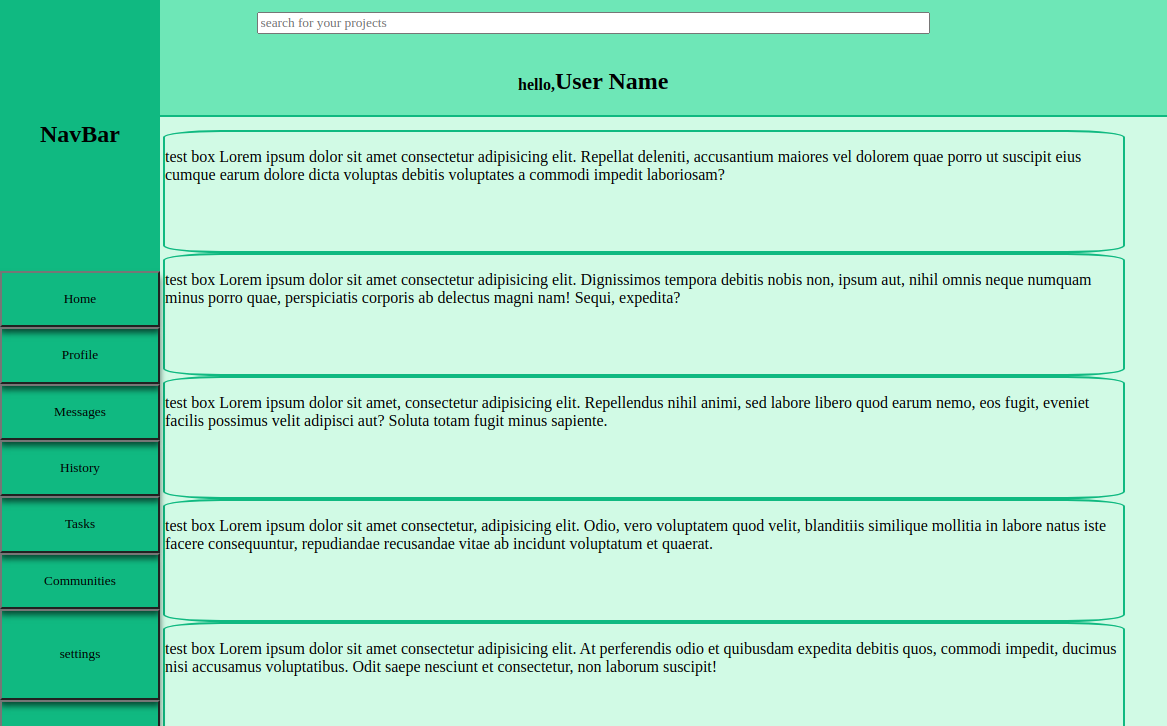
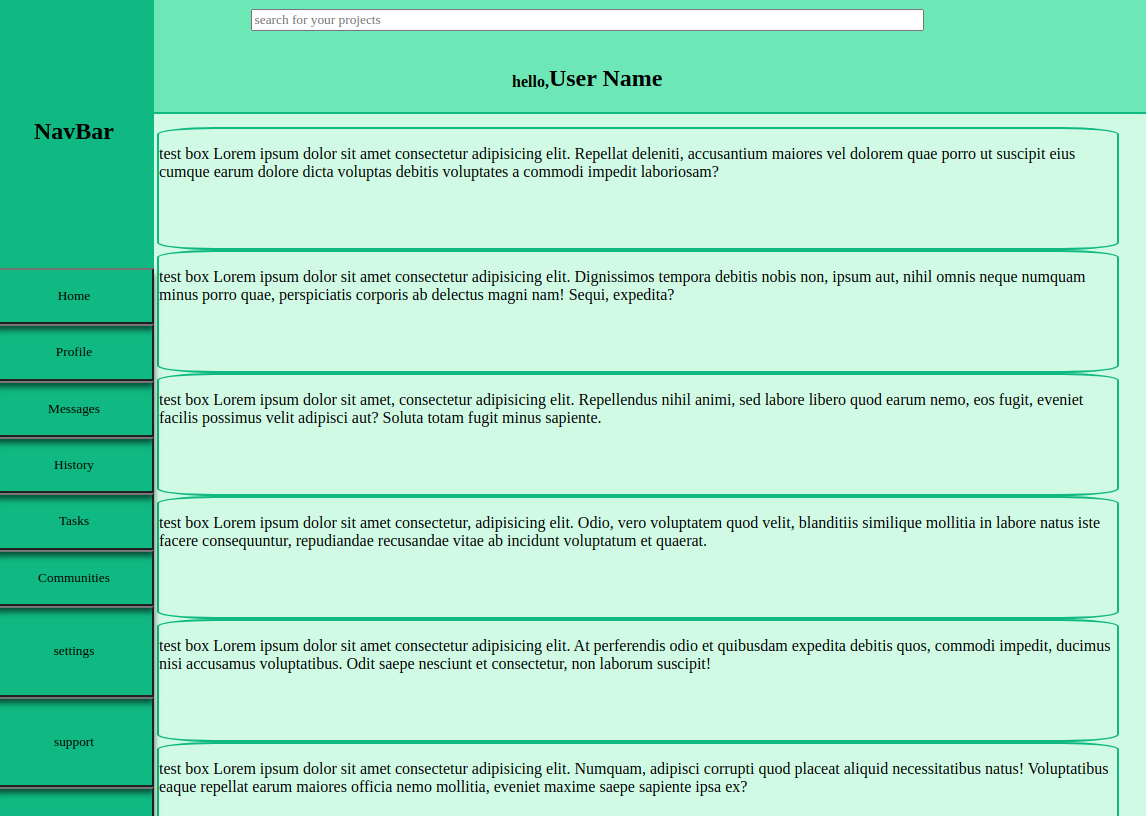
need to fix the tailwindcss

Changed region(s): [[0.0, 0.0909, 1.0, 1.0], [0.2138, 0.0, 0.8246, 0.0606], [0.0305, 0.1515, 0.0916, 0.2121]]

diff --git a/client/src/components/MainPage.jsx b/client/src/components/MainPage.jsx
@@ -130,8 +130,8 @@ export default function MainPage() {
   };
 
   return (
-    <div className='flex flex-row'>
-      <div className='flex flex-col justify-between pl-2 pr-2 text-amber-300 fixed h-screen items-center bg-gray-600'>
+    <div className='grid grid-cols-3'>
+      <div className='col-span-1 flex flex-col justify-between pl-2 pr-2 text-amber-300 fixed h-screen items-center bg-gray-600'>
         <div className='bg-black rounded-full h-10 w-10 mt-4'></div>
         <ul className='flex flex-col text-lg justify-center mb-80'>
           <li className='sideBarText'>
@@ -168,7 +168,7 @@ export default function MainPage() {
           </li>
         </ul>
       </div>
-      <div className='flex flex-col text-center justify-center h-screen w-screen items-center'>
+      <div className='col-span-2 flex flex-col text-center justify-center h-screen items-center'>
         {showImage && (
           <img
             src={EliImage}
@@ -292,11 +292,14 @@ export default function MainPage() {
                 <p className='mt-3'>created a frontend only shopping cart</p>
               </div>
               <div className='projectDivs'>
-                <h2>SignupPage</h2>
+                <h2 className='mb-3 font-kode-mono'>SignupPage</h2>
                 <img src={signup} />
+                <p>created a mock signup page</p>
               </div>
               <div className='projectDivs'>
-                <h2>AdminPage</h2>
+                <h2 className='mb-3'>AdminPage</h2>
+                <img src={Admin} />
+                <p>created a mock admin page for users</p>
               </div>
             </div>
           </div>
